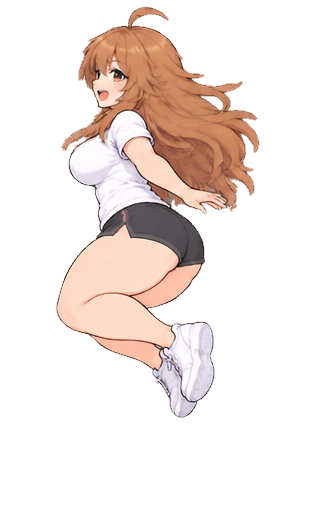
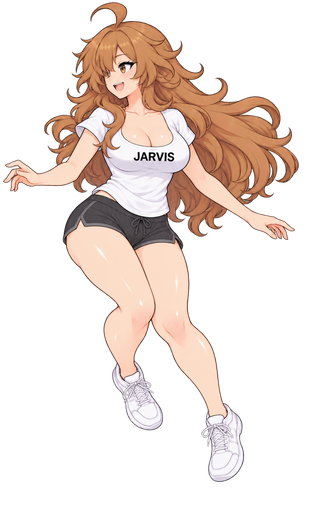
v5.6.5: Flackerfreie Tanzanimation, hochaufloesende Sprung-Frames & Sprechblase ohne Abschneiden

Changed region(s): [[0.0, 0.0, 0.9375, 0.9375]]

diff --git a/src/renderer/src/components/AlyaDance.jsx b/src/renderer/src/components/AlyaDance.jsx
@@ -7,101 +7,42 @@ const back = front.map(s => s.replace('vorne','hinten'));
 const jumpOut = ['01_ausholen','02_absprung','03_drehung_1','04_drehung_2','05_drehung_3','06_landung'].map(s => 'sprung_vorne_nach_hinten_' + s);
 const jumpIn = ['01_ausholen','02_absprung','03_drehung_1','04_drehung_2','05_drehung_3','06_landung'].map(s => 'sprung_hinten_nach_vorne_' + s);
 const frames = [...front, ...jumpOut, ...back, ...jumpIn];
-const durations = [...[150,125,160,125,150,125,160,125], ...[115,92,90,90,100,130], ...[150,125,160,125,150,125,160,125], ...[115,92,90,90,100,130]];
+const durations = [...[145,115,155,115,145,115,155,115], ...[105,85,80,80,90,115], ...[145,115,155,115,145,115,155,115], ...[105,85,80,80,90,115]];
 const total = durations.reduce((a,b) => a+b, 0);
 const urls = [...new Set(frames)].map(s => ROOT + s + '.png');
 
-// Decode once per renderer and precompute per-strip spine profiles for 60 FPS sub-frame warping.
-const STRIPS = 48;
-const SRC_W = 320;
-const SRC_H = 512;
-const playSeq = [...front, ...front, ...jumpOut, ...back, ...back, ...jumpIn];
-const playDur = [
-  ...[150,125,160,125,150,125,160,125], ...[150,125,160,125,150,125,160,125],
-  ...[115,92,90,90,100,130],
-  ...[150,125,160,125,150,125,160,125], ...[150,125,160,125,150,125,160,125],
-  ...[115,92,90,90,100,130],
+// Decode once per renderer and keep GPU textures pinned via pre-mounted <img> layers (zero src-swap/canvas flicker).
+const playFrames = [...front, ...front, ...jumpOut, ...back, ...back, ...jumpIn];
+const playDurations = [
+  ...[145,115,155,115,145,115,155,115], ...[145,115,155,115,145,115,155,115],
+  ...[105,85,80,80,90,115],
+  ...[145,115,155,115,145,115,155,115], ...[145,115,155,115,145,115,155,115],
+  ...[105,85,80,80,90,115],
 ];
-const playTotal = playDur.reduce((a, b) => a + b, 0);
+const playTotal = playDurations.reduce((a, b) => a + b, 0);
 
 let loaded;
-const frameMap = new Map();
-
-function analyzeFrame(im) {
-  const c = document.createElement('canvas');
-  c.width = SRC_W; c.height = SRC_H;
-  const ctx = c.getContext('2d', { willReadFrequently: true });
-  ctx.drawImage(im, 0, 0, SRC_W, SRC_H);
-  const data = ctx.getImageData(0, 0, SRC_W, SRC_H).data;
-  const rawCx = new Float32Array(STRIPS);
-  const sh = SRC_H / STRIPS;
-  for (let s = 0; s < STRIPS; s++) {
-    const y0 = Math.floor(s * sh), y1 = Math.min(SRC_H, Math.ceil((s + 1) * sh));
-    let minX = SRC_W, maxX = -1;
-    for (let y = y0; y < y1; y++) {
-      const row = y * SRC_W * 4;
-      for (let x = 0; x < SRC_W; x++) {
-        if (data[row + x * 4 + 3] > 80) {
-          if (x < minX) minX = x;
-          if (x > maxX) maxX = x;
-        }
-      }
-    }
-    rawCx[s] = maxX >= minX ? 0.5 * (minX + maxX) : (s > 0 ? rawCx[s - 1] : SRC_W * 0.5);
-  }
-  const cx = new Float32Array(STRIPS);
-  for (let s = 0; s < STRIPS; s++) {
-    let sum = 0, wsum = 0;
-    for (let k = -3; k <= 3; k++) {
-      const idx = Math.max(0, Math.min(STRIPS - 1, s + k));
-      const w = 4 - Math.abs(k);
-      sum += rawCx[idx] * w; wsum += w;
-    }
-    cx[s] = sum / wsum;
-  }
-  return { im, cx };
-}
-
+let kept = [];
 function preload() {
   return loaded ||= Promise.all(urls.map(src => new Promise(resolve => {
     const im = new Image();
-    im.onload = () => resolve({ src, im });
+    im.decoding = 'sync';
+    im.onload = () => {
+      if (typeof im.decode === 'function') im.decode().catch(() => {}).finally(() => resolve(im));
+      else resolve(im);
+    };
     im.onerror = () => resolve(null);
     im.src = src;
-  }))).then(items => {
-    const ok = items.every(it => it?.im?.naturalWidth > 0);
-    if (ok) {
-      for (const { src, im } of items) {
-        const key = src.slice(ROOT.length, -4);
-        frameMap.set(key, analyzeFrame(im));
-      }
-    } else {
-      loaded = null;
-    }
+  }))).then(images => {
+    const ok = images.every(im => im?.naturalWidth > 0);
+    if (ok) kept = images; else loaded = null;
     return ok;
   });
 }
 
-function drawWarped(ctx, entry, targetEntry, shiftFactor, w, h, alpha = 1, dyPx = 0) {
-  if (!entry || alpha <= 0.01) return;
-  ctx.save();
-  ctx.globalAlpha = alpha;
-  const shSrc = SRC_H / STRIPS;
-  const shDst = h / STRIPS;
-  const scaleX = w / SRC_W;
-  for (let s = 0; s < STRIPS; s++) {
-    const sy = s * shSrc;
-    const dy = s * shDst + dyPx;
-    const rawDelta = targetEntry ? (targetEntry.cx[s] - entry.cx[s]) * shiftFactor : 0;
-    const dx = Math.max(-14, Math.min(14, rawDelta)) * scaleX;
-    ctx.drawImage(entry.im, 0, sy, SRC_W, shSrc + 0.6, dx, dy, w, shDst + 0.45);
-  }
-  ctx.restore();
-}
-
 export function AlyaDance({ size, fallback, onPointerDown, onContextMenu, onMouseEnter, onMouseLeave }) {
-  const canvasRef = useRef(null);
-  const [ready, setReady] = useState(() => frameMap.size === urls.length);
+  const boxRef = useRef(null);
+  const [ready, setReady] = useState(() => kept.length === urls.length);
   useEffect(() => {
     if (ready) return undefined;
     let alive = true;
@@ -110,68 +51,41 @@ export function AlyaDance({ size, fallback, onPointerDown, onContextMenu, onMous
   }, [ready]);
   useEffect(() => {
     if (!ready) return undefined;
-    let raf;
+    let timer;
+    let lastUrl = '';
     const start = performance.now();
-    const render = (now) => {
-      const cv = canvasRef.current;
-      if (!cv) return;
-      const dpr = Math.min(2, window.devicePixelRatio || 1);
-      const w = size;
-      const h = Math.round(size * 1.6);
-      const pw = Math.round(w * dpr), ph = Math.round(h * dpr);
-      if (cv.width !== pw || cv.height !== ph) { cv.width = pw; cv.height = ph; }
-      const ctx = cv.getContext('2d');
-      ctx.setTransform(dpr, 0, 0, dpr, 0, 0);
-      ctx.clearRect(0, 0, w, h);
-
-      const t = (now - start) % playTotal;
+    const tick = () => {
+      clearTimeout(timer);
+      const root = boxRef.current;
+      if (!root) return;
+      const t = (performance.now() - start) % playTotal;
       let elapsed = 0, idx = 0;
-      while (idx < playDur.length - 1 && elapsed + playDur[idx] <= t) elapsed += playDur[idx++];
-      const dur = playDur[idx];
-      const p = Math.max(0, Math.min(1, (t - elapsed) / dur));
-      // Smoothstep easing within each keyframe interval
-      const ease = p * p * (3 - 2 * p);
-
-      const curName = playSeq[idx];
-      const nextName = playSeq[(idx + 1) % playSeq.length];
-      const cur = frameMap.get(curName);
-      const next = frameMap.get(nextName);
-      const isJump = curName.startsWith('sprung_') || nextName.startsWith('sprung_');
-
-      // Subtle rhythmic knee-bounce on the hip-sway beat
-      const bounceY = isJump ? 0 : Math.sin(ease * Math.PI) * (size * 0.008);
-
-      if (!isJump && cur && next) {
-        // Spine-warped 60 FPS interpolation with aligned-silhouette midpoint crossfade
-        if (ease < 0.38) {
-          drawWarped(ctx, cur, next, ease * 0.85, w, h, 1, bounceY);
-        } else if (ease > 0.62) {
-          drawWarped(ctx, next, cur, (1 - ease) * 0.85, w, h, 1, bounceY);
-        } else {
-          const blend = (ease - 0.38) / 0.24;
-          drawWarped(ctx, cur, next, 0.45, w, h, 1 - blend, bounceY);
-          drawWarped(ctx, next, cur, 0.45, w, h, blend, bounceY);
+      while (idx < playDurations.length - 1 && elapsed + playDurations[idx] <= t) elapsed += playDurations[idx++];
+      const next = ROOT + playFrames[idx] + '.png';
+      if (next !== lastUrl) {
+        lastUrl = next;
+        const imgs = root.children;
+        for (let i = 0; i < imgs.length; i++) {
+          const on = imgs[i].dataset.src === next;
+          imgs[i].style.opacity = on ? '1' : '0';
         }
-      } else if (cur && next) {
-        // Spin jump: crisp fast frames with brief aligned cross-dissolve at frame boundary
-        if (ease < 0.72) {
-          drawWarped(ctx, cur, next, ease * 0.35, w, h, 1, 0);
-        } else {
-          const blend = (ease - 0.72) / 0.28;
-          drawWarped(ctx, cur, next, 0.35, w, h, 1 - blend, 0);
-          drawWarped(ctx, next, cur, 0.25, w, h, blend, 0);
-        }
-      } else if (cur) {
-        drawWarped(ctx, cur, null, 0, w, h, 1, 0);
       }
-      raf = requestAnimationFrame(render);
+      timer = setTimeout(tick, Math.max(16, elapsed + playDurations[idx] - t));
     };
-    raf = requestAnimationFrame(render);
-    return () => cancelAnimationFrame(raf);
-  }, [ready, size]);
+    tick();
+    return () => clearTimeout(timer);
+  }, [ready]);
   if (!ready) return fallback;
-  return <div class="pet-fig pet-img s-dance has-pose" style={{ width: size + 'px', height: Math.round(size * 1.6) + 'px' }}
+  const h = Math.round(size * 1.6);
+  const firstUrl = ROOT + playFrames[0] + '.png';
+  return <div class="pet-fig pet-img s-dance has-pose" style={{ width: size + 'px', height: h + 'px' }}
     onPointerDown={onPointerDown} onContextMenu={onContextMenu} onMouseEnter={onMouseEnter} onMouseLeave={onMouseLeave}>
-    <div class="body"><canvas ref={canvasRef} style={{ width: size + 'px', height: Math.round(size * 1.6) + 'px', display: 'block', pointerEvents: 'none' }} /></div>
+    <div ref={boxRef} class="body" style={{ position: 'relative', width: size + 'px', height: h + 'px' }}>
+      {urls.map((u) => (
+        <img key={u} data-src={u} src={u} width={size} height={h} decoding="sync" draggable={false} alt="Alya tanzt"
+          style={{ position: 'absolute', inset: 0, width: '100%', height: '100%', opacity: u === firstUrl ? 1 : 0, pointerEvents: 'none' }}
+          onError={() => setReady(false)} />
+      ))}
+    </div>
   </div>;
 }

diff --git a/src/renderer/src/pet.jsx b/src/renderer/src/pet.jsx
@@ -151,6 +151,7 @@ function Desk() {
     if (b && cx >= b.left && cx <= b.right && cy >= b.top && cy <= b.bottom) return true;
     const el = walker.current?.querySelector('.pet-lift')?.firstElementChild; const r = el?.getBoundingClientRect();
     if (!r || cx < r.left || cx > r.right || cy < r.top || cy > r.bottom) return false;
+    if (el.classList.contains('s-dance')) return cx >= r.left + r.width * 0.12 && cx <= r.right - r.width * 0.12;
     const img = el.querySelector('img');
     if (!img) return true; // Ersatzfigur (SVG): ganze Fläche
     let fx = (cx - r.left) / r.width; const fy = (cy - r.top) / r.height;
@@ -211,11 +212,13 @@ function Desk() {
   if (side === 'right' && x + size + gap + bw > window.innerWidth - 8) side = 'left';
   // Bild ist breiter als die Figur (Haare) → Abstand zur sichtbaren Kontur
   const bx = side === 'left' ? Math.max(8, x + size * 0.1 - gap - bw) : Math.min(window.innerWidth - bw - 8, x + size * 0.9 + gap);
-  const bottom = Math.max(8, window.innerHeight - headY - 34);
+  const maxBottom = Math.max(12, window.innerHeight - 300);
+  const bottom = Math.min(maxBottom, Math.max(12, Math.round(window.innerHeight - headY - 34)));
+  const bubbleMaxH = Math.max(120, Math.min(230, Math.round(window.innerHeight - bottom - 66)));
   return (
     <div class="pet-desk">
       {mood.bubble && (
-        <div ref={bubbleBox} class="pet-bubble-wrap" style={{ left: bx + 'px', bottom: bottom + 'px', width: bw + 'px', transition: walk ? `left ${walk.dur}s linear` : 'none' }}>
+        <div ref={bubbleBox} class="pet-bubble-wrap" style={{ left: bx + 'px', bottom: bottom + 'px', width: bw + 'px', '--bubble-max-h': bubbleMaxH + 'px', transition: walk ? `left ${walk.dur}s linear` : 'none' }}>
           <PetBubble bubble={mood.bubble} html={renderMarkdown(mood.bubble.text || '')} onClose={mood.close} side={side} name={bubbleName(settings)} />
         </div>
       )}

diff --git a/src/renderer/src/components/Shell.jsx b/src/renderer/src/components/Shell.jsx
@@ -92,7 +92,7 @@ function SidebarPet() {
   const [size, setSize] = useState(120);
   useEffect(() => {
     const el = box.current; if (!el) return undefined;
-    const ro = new ResizeObserver(([e]) => { const { width, height } = e.contentRect; setSize(Math.max(70, Math.floor(Math.min(width - 8, (height - 6) / 1.5)))); });
+    const ro = new ResizeObserver(([e]) => { const { width, height } = e.contentRect; setSize(Math.max(70, Math.floor(Math.min(width - 8, (height - 6) / 1.6)))); });
     ro.observe(el);
     return () => ro.disconnect();
   }, []);

diff --git a/src/renderer/styles/pet.css b/src/renderer/styles/pet.css
@@ -109,7 +109,7 @@
 @media (prefers-reduced-motion: reduce) { .pet-desk .pet-walker.drag .pet-lift, .pet-desk .pet-lift.landed { animation: none; } }
 .pet-desk .pet-bubble-wrap { position: absolute; }
 .pet-desk .pet-bubble { max-width: 340px; }
-.pet-desk .pet-bubble-text { max-height: 230px; overflow-y: auto; }
+.pet-desk .pet-bubble-text { max-height: var(--bubble-max-h, 230px); overflow-y: auto; }
 
 /* Overlay: Figur links, Blase rechts daneben */
 .ov-pet { display: flex; align-items: flex-start; gap: 18px; }

diff --git a/src/main/pet.js b/src/main/pet.js
@@ -7,7 +7,7 @@ const log = require('./core/logger').scope('pet');
  * in dem die JARVIS-Figur herumläuft und in Sprechblasen antwortet. Nur über Figur/Blase nimmt das Fenster
  * die Maus an (pet.mouse). Während ein Spiel läuft, verschwindet sie – dann wohnt sie im Overlay.
  */
-const HEIGHT = 520;
+const HEIGHT = 640;
 
 class Pet {
   constructor({ core, preload, isDev, showWindow, startVoice, uiShown = () => false, display = () => screen.getPrimaryDisplay() }) {

diff --git a/CHANGELOG.md b/CHANGELOG.md
@@ -2,6 +2,12 @@
 
 Jeder Abschnitt `## x.y.z` erscheint als Changelog im Update-Dialog von JARVIS.
 
+## 5.6.5 – Flackerfreie Tanzanimation, neue Sprung-Frames & Sprechblase ohne Abschneiden
+
+- **Kein Flackern mehr beim Tanzen:** Der 60-FPS-Canvas-Streifen-Crossfader wurde durch vorgeladene, im Grafikspeicher gehaltene `<img>`-Ebenen (`decoding="sync"`) ersetzt, bei denen nur die Sichtbarkeit der aktiven Ebene wechselt – kein Alpha-Einbruch, keine Streifen-Übergänge und kein Windows-DWM-Flackern mehr.
+- **Standfuß-Verankerung & hochauflösende Drehsprung-Frames:** Die neuen hochauflösenden Einzelbilder für Vorderansicht und Drehsprünge (mit durchgehendem „JARVIS“-Shirt und sauberer Sprungparabel) wurden übernommen, fehlerhafte KI-Richtungswechsel bereinigt und Vorder-/Rückseite exakt auf gleiche Körpergröße (`502 px`), Standlinie und Hüftachse ausgerichtet.
+- **Sprechblase wird oben nicht mehr abgeschnitten:** Das Desktop-Figur-Fenster bietet mehr Kopffreiheit (`640 px` Höhe) und begrenzt die vertikale Position sowie Maximalhöhe der Sprechblase dynamisch an der oberen Fenstergrenze, sodass Kopfzeile (`ALYA` / `×`) und oberer Rand auch bei großer Figur nie mehr abgeschnitten werden.
+
 ## 5.6.4 – Alya-Tanzbilder bereinigt & 60-FPS-Animation
 
 - **Alle 22 Tanzbilder im `dance`-Ordner bereinigt & vervollständigt:** Abgeschnittene Hände, Finger, Haarspitzen und Schuhsohlen wurden aus dem ursprünglichen Sprite-Sheet nahtlos wieder an die jeweilige Figur angefügt; sämtliche fremden Bildreste an den Rändern sowie halbtransparente Hintergrund-Schatten unter den Haaren sind restlos entfernt.
